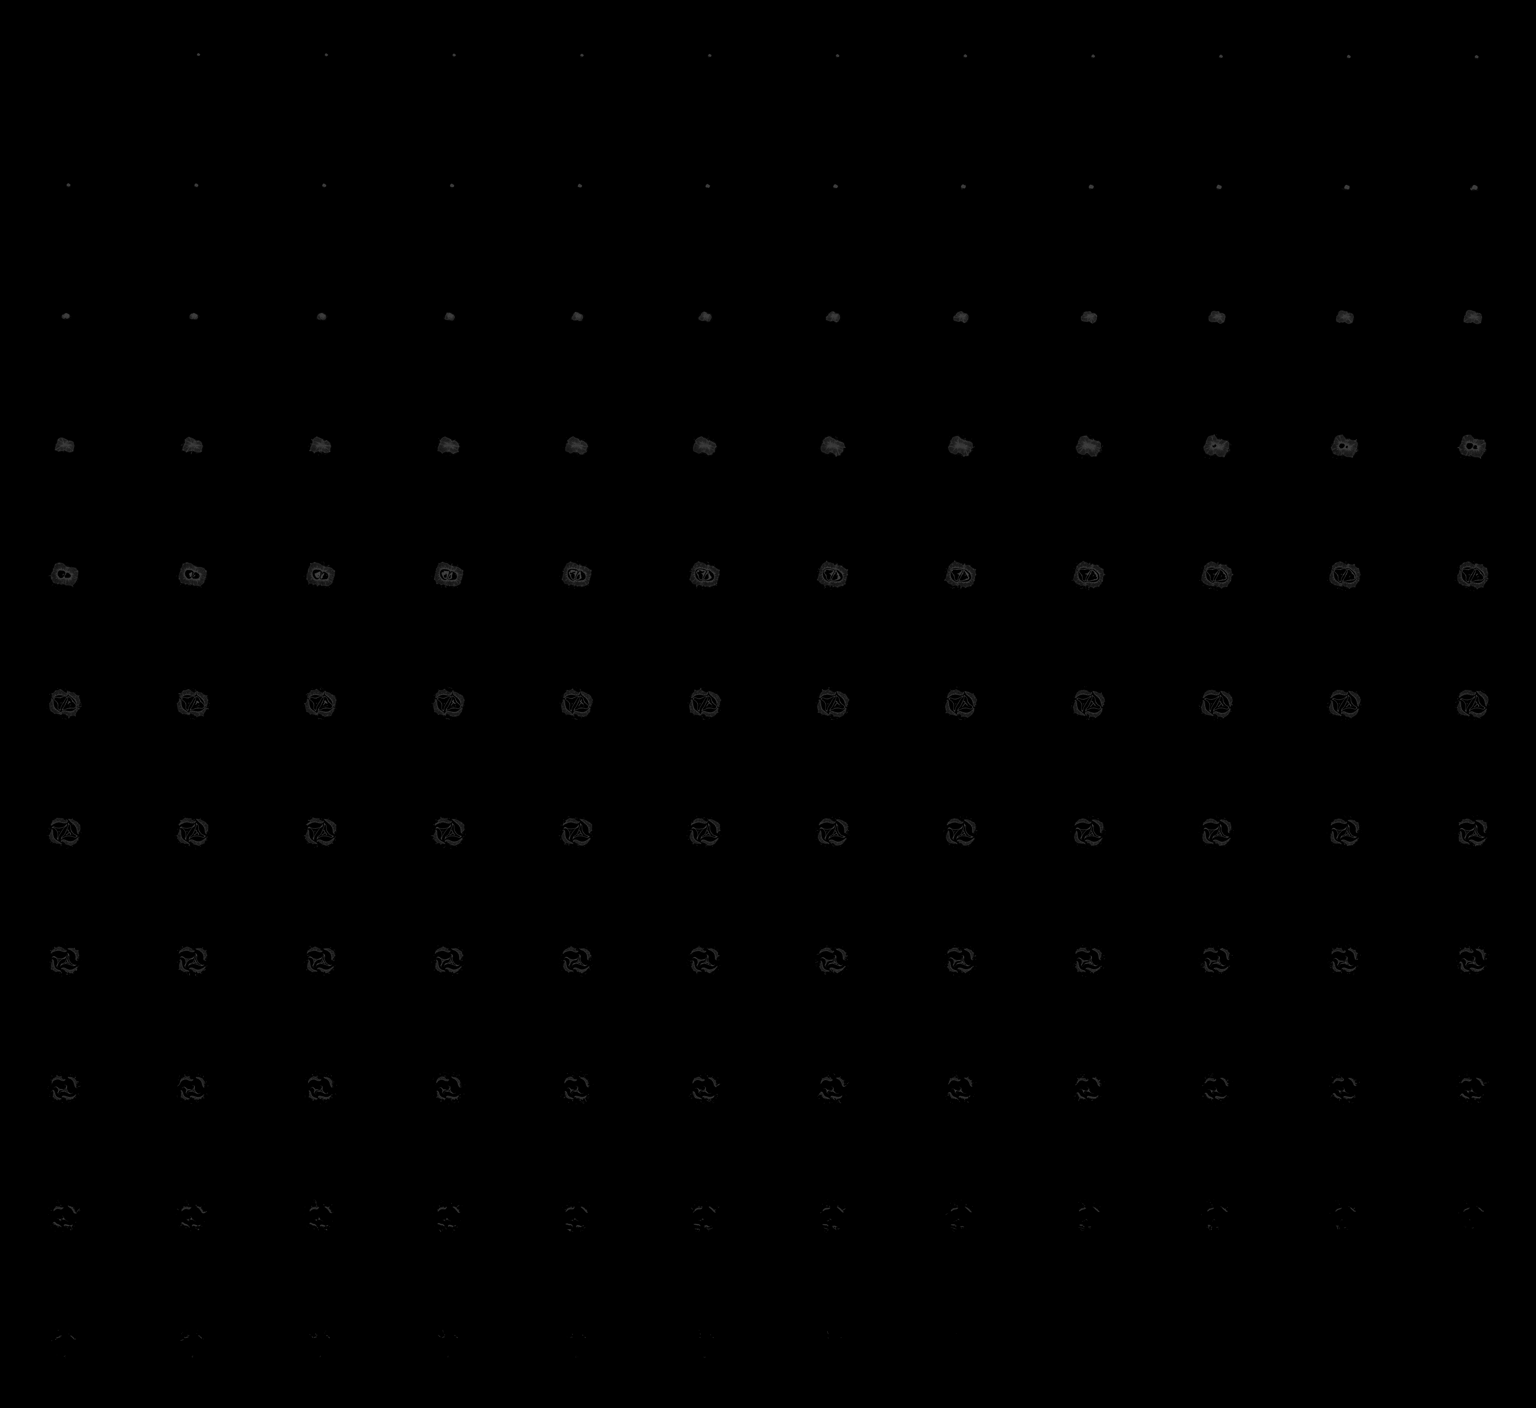
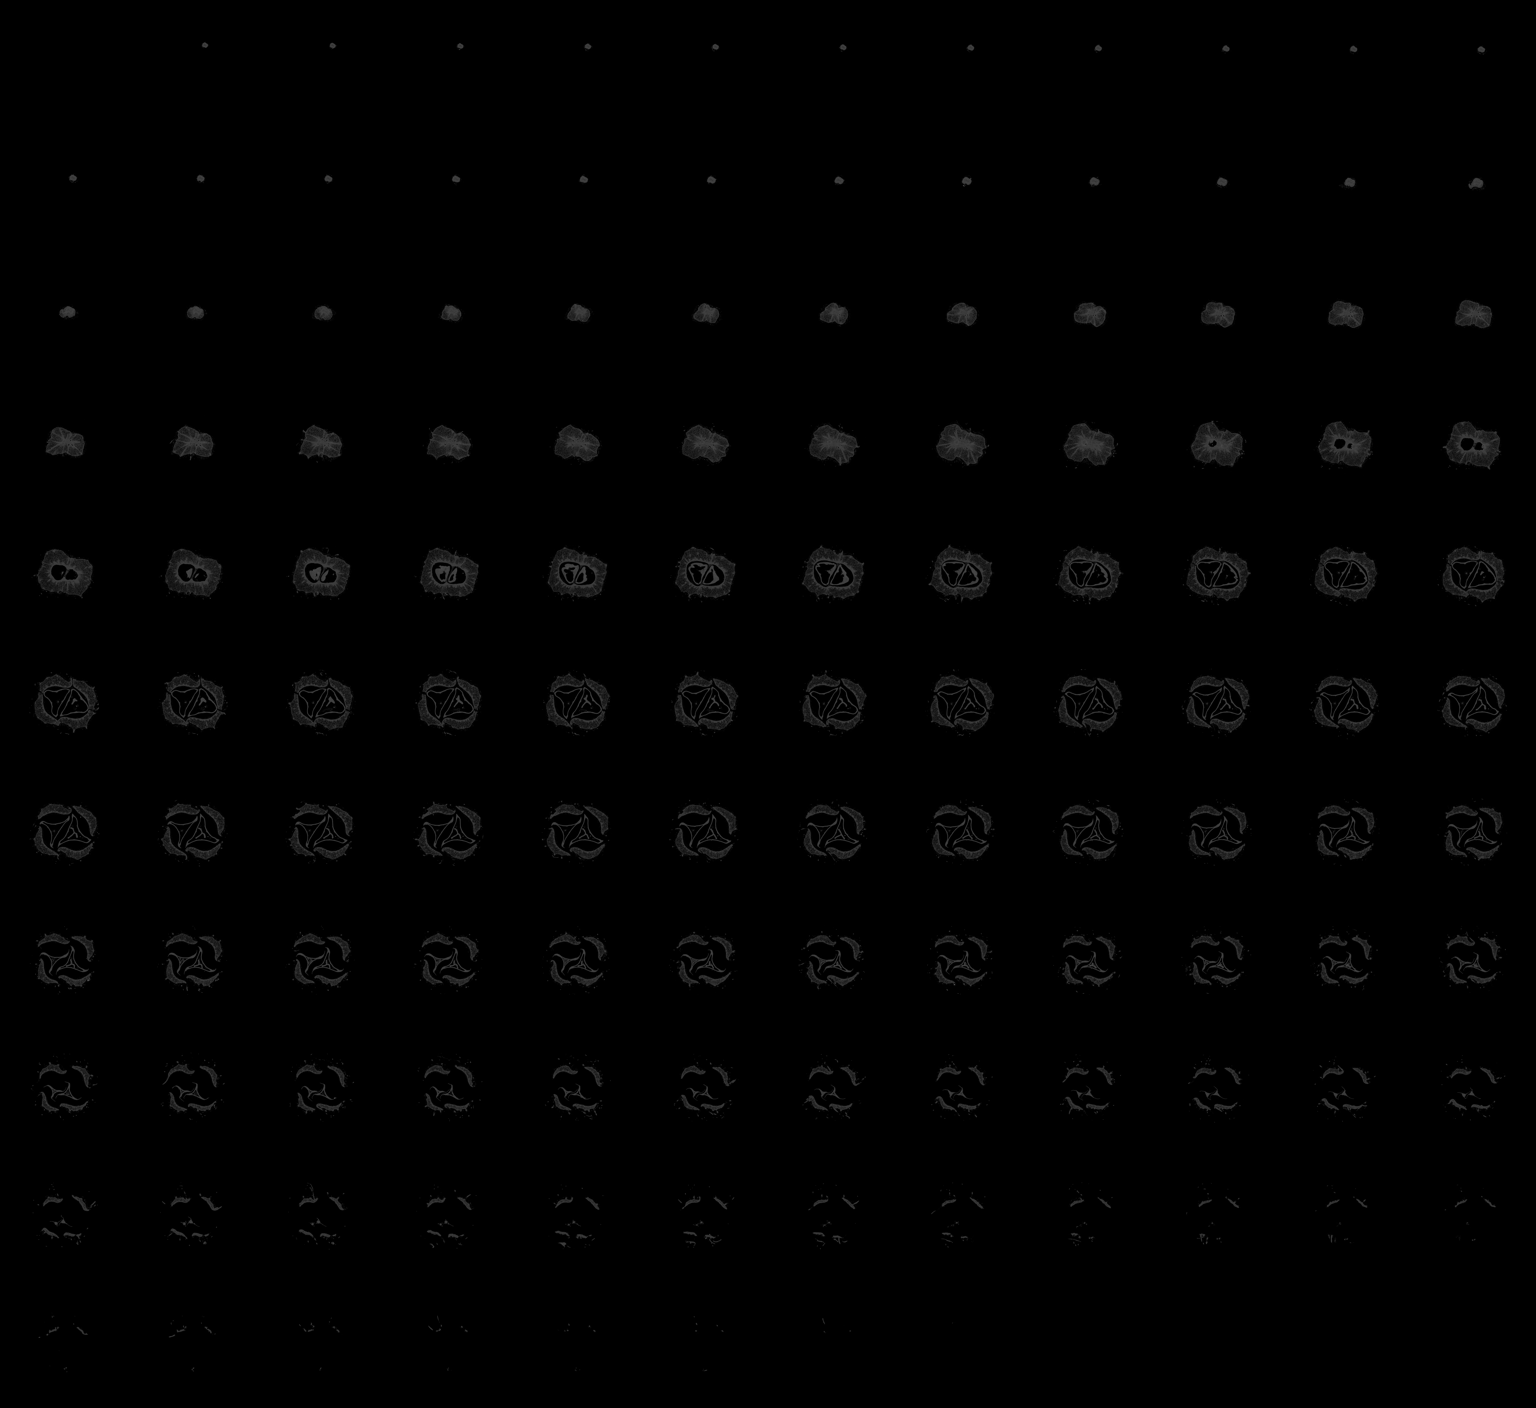
Update Beechnut images and also the python script

diff --git a/script/rawToPng/main.py b/script/rawToPng/main.py
@@ -35,8 +35,8 @@ def process_raw_to_image(dat_file, output_file, downscale_factor=2, slice_skip=2
     scaled_w, scaled_h = width // downscale_factor, height // downscale_factor
 
     # Compute scaling factor to maintain proportions
-    scaled_width = int(width * (width / depth) // downscale_factor // 2)
-    scaled_height = int(height * (height / depth) // downscale_factor // 2)
+    scaled_width = int(width * (width / depth) // downscale_factor)
+    scaled_height = int(height * (height / depth) // downscale_factor)
 
     if width == depth and height == depth:
         scaled_width = scaled_w
@@ -114,21 +114,21 @@ def process_raw_to_image(dat_file, output_file, downscale_factor=2, slice_skip=2
 
 # 512x512x512 -> hazelnuts/hnut_uint.dat
 # process_raw_to_image("hazelnuts/hnut_uint.dat", "hazelnut_slices", 1, 1) # High quality
-# process_raw_to_image("hazelnuts/hnut_uint.dat", "hazelnut_slices", 2, 2) # Normal quality
+process_raw_to_image("hazelnuts/hnut_uint.dat", "hazelnut_slices", 2, 2) # Normal quality
 # process_raw_to_image("hazelnuts/hnut_uint.dat", "hazelnut_slices", 4, 4) # Low quality
 
 # 1024x1024x1024 -> flower/flower_uint.dat
 # process_raw_to_image("flower/flower_uint.dat", "flower_slices", 2, 2) # High quality
-# process_raw_to_image("flower/flower_uint.dat", "flower_slices", 4, 4) # Normal quality
+process_raw_to_image("flower/flower_uint.dat", "flower_slices", 4, 4) # Normal quality
 # process_raw_to_image("flower/flower_uint.dat", "flower_slices", 8, 8) # Low quality
 
 # 1024x1024x1546 -> beechnut/beechnut_uint.dat
 # process_raw_to_image("beechnut/beechnut_uint.dat", "beechnut_slices", 2, 3, True, 50) # High quality
-# process_raw_to_image("beechnut/beechnut_uint.dat", "beechnut_slices", 4, 6, True, 50) # Normal quality
+process_raw_to_image("beechnut/beechnut_uint.dat", "beechnut_slices", 4, 6, True, 50) # Normal quality
 # process_raw_to_image("beechnut/beechnut_uint.dat", "beechnut_slices", 8, 12, True, 50) # Low quality
 
 # 2048x2048x2048 -> woodbranch/woodbranch_uint.dat
 # process_raw_to_image("woodbranch/woodbranch_uint.dat", "woodbranch_slices", 4, 4, True, 50, 5, 50) # High quality
-# process_raw_to_image("woodbranch/woodbranch_uint.dat", "woodbranch_slices", 8, 8, True, 50, 5, 50) # Normal quality
+process_raw_to_image("woodbranch/woodbranch_uint.dat", "woodbranch_slices", 8, 8, True, 50, 5, 50) # Normal quality
 # process_raw_to_image("woodbranch/woodbranch_uint.dat", "woodbranch_slices", 16, 16, True, 50, 5, 50) # Low quality
 
